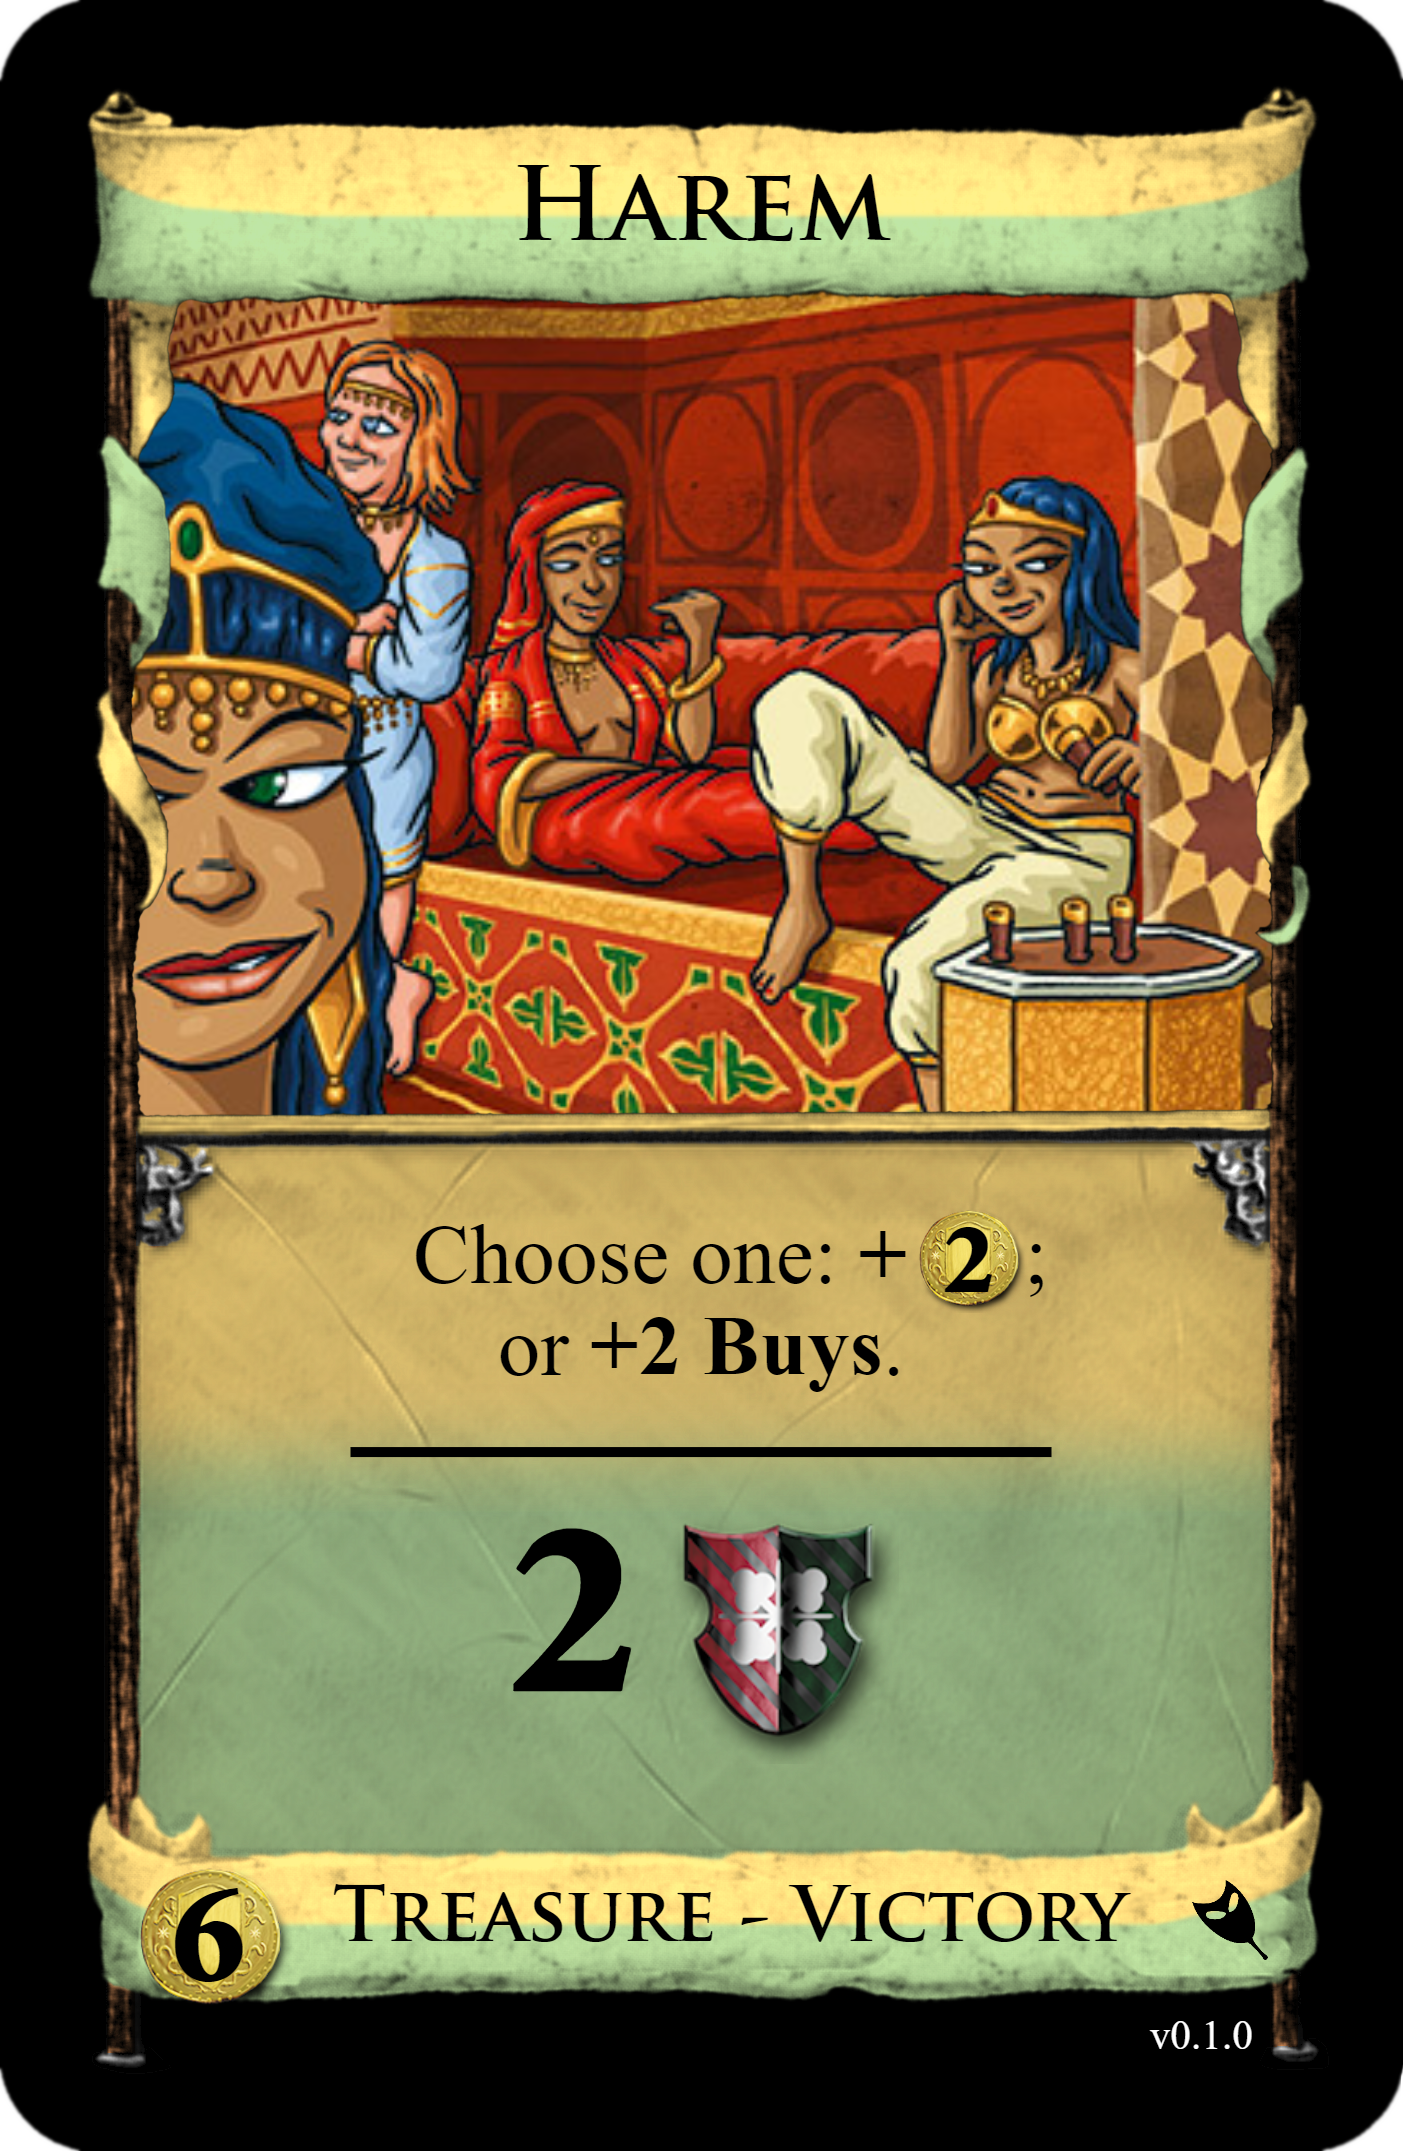
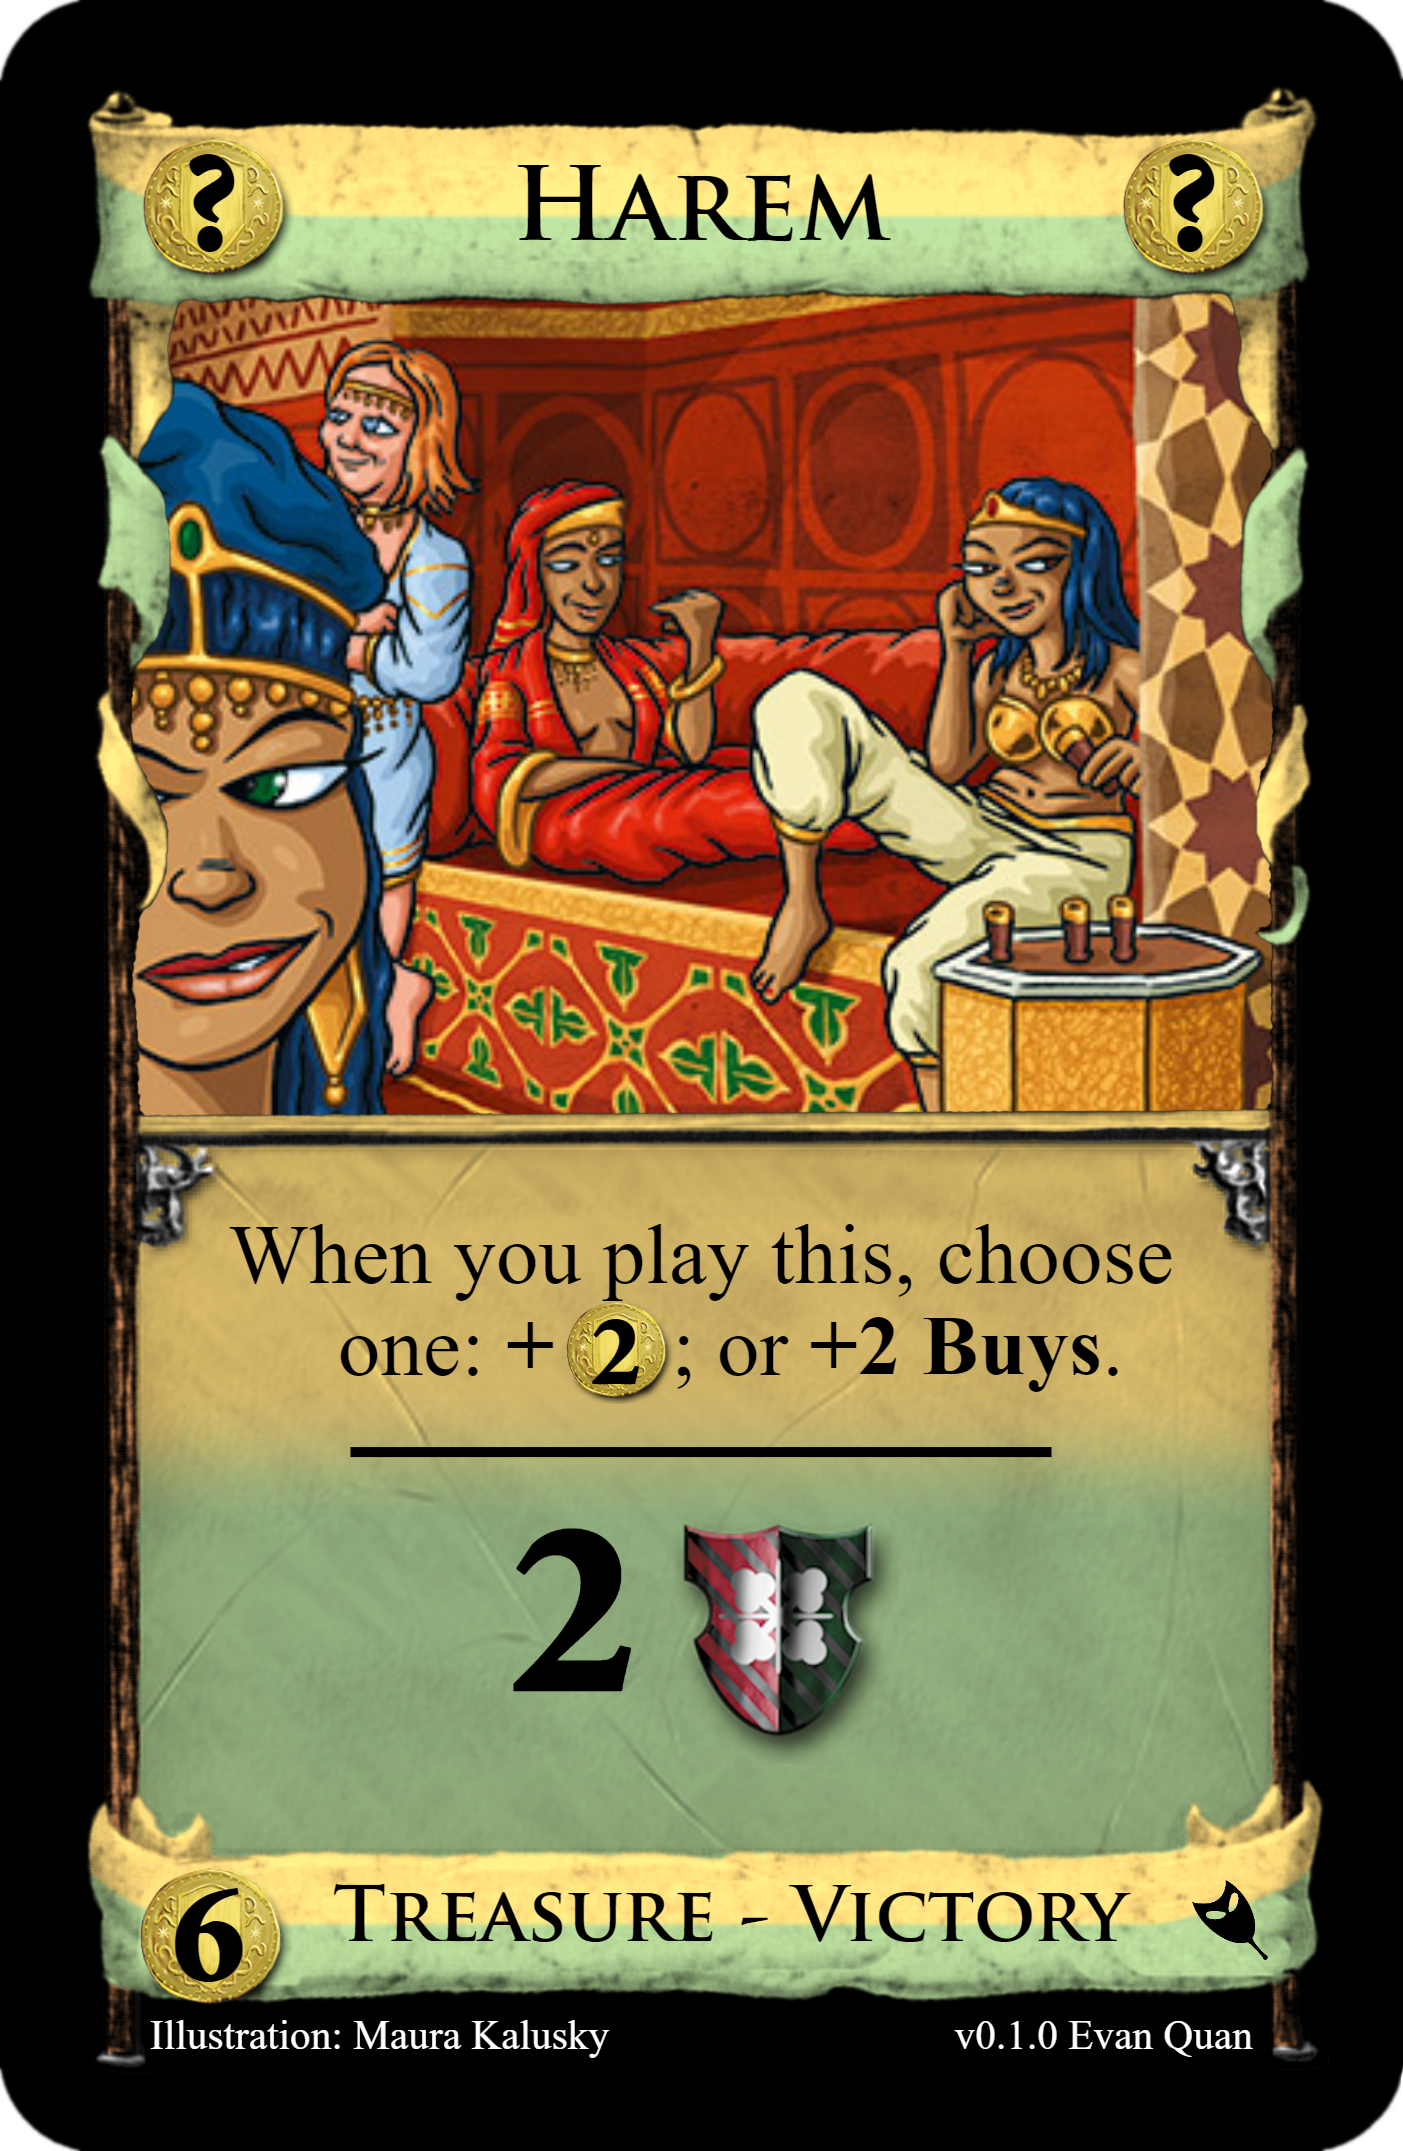
Update image

diff --git a/Revisions/Harem.md b/Revisions/Harem.md
@@ -26,6 +26,6 @@ probably would have been better, however this is more flavourful for an
 Intrigue card.
 
 [^v0.1.0]: /Revisions/Images/Harem_v0.1.0.png
-[^Card]: https://shardofhonor.github.io/dominion-card-generator/?title=Harem&description=Choose%20one%3A%20%2B%242%3B%0Aor%20%2B2%20Buys.%0A%0A-%0A%0A2%25&type=Treasure%20-%20Victory&credit=&creator=v0.1.0&price=%246&preview=&type2=&color2split=1&boldkeys=&picture-x=0&picture-y=0&picture-zoom=1&picture=http%3A%2F%2Fwiki.dominionstrategy.com%2Fimages%2F9%2F90%2FHaremArt.jpg&expansion=http%3A%2F%2Fwiki.dominionstrategy.com%2Fimages%2Fc%2Fcf%2FIntrigue_icon.png&custom-icon=&color0=2&color1=2&size=0
+[^Card]: https://shardofhonor.github.io/dominion-card-generator/?title=Harem&description=When%20you%20play%20this%2C%20choose%20one%3A%20%2B%242%3B%20or%20%2B2%20Buys.%0A%0A-%0A%0A2%25&type=Treasure%20-%20Victory&credit=Illustration%3A%20Maura%20Kalusky&creator=v0.1.0%20Evan%20Quan&price=%246&preview=%24%3F&type2=&color2split=1&boldkeys=&picture-x=0&picture-y=0&picture-zoom=1&picture=http%3A%2F%2Fwiki.dominionstrategy.com%2Fimages%2F9%2F90%2FHaremArt.jpg&expansion=http%3A%2F%2Fwiki.dominionstrategy.com%2Fimages%2Fc%2Fcf%2FIntrigue_icon.png&custom-icon=&color0=2&color1=2&size=0
 [^Original]: http://wiki.dominionstrategy.com/index.php/Harem
 [^Nobles]: http://wiki.dominionstrategy.com/index.php/Nobles
